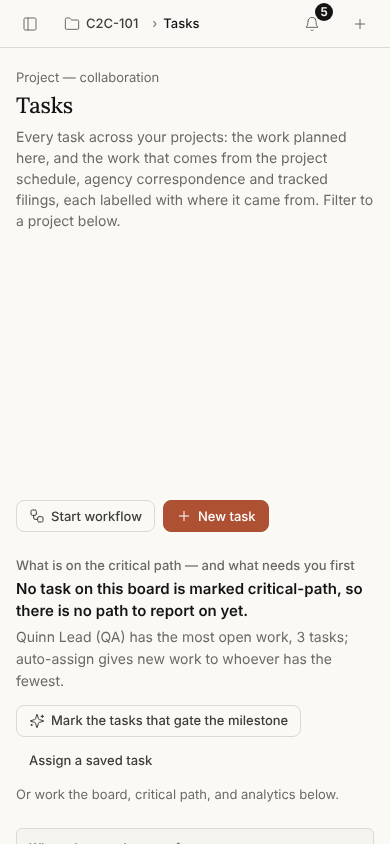
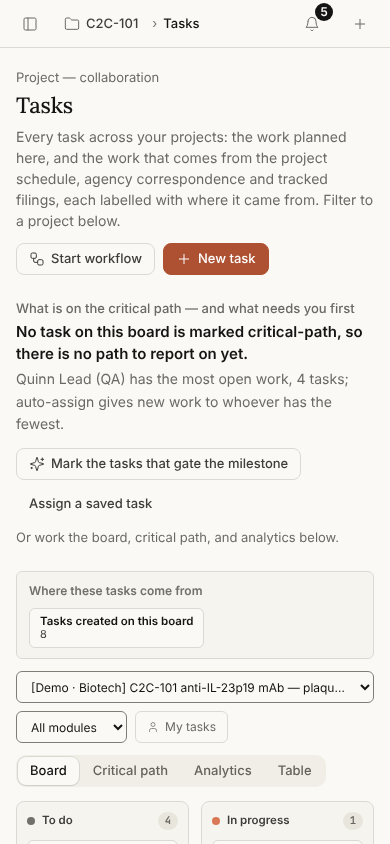
F1: J5 evidence: J2's D4 and D9 fixed and walked
Plan: F1
Completes: docs/evidence/HUMAN-TEST

Claude-Session: https://claude.ai/code/session_01QoxbLcjX1Nv4GMRDVSNQBg

diff --git a/.design/claude-convergence/COORDINATION.md b/.design/claude-convergence/COORDINATION.md
@@ -56,7 +56,7 @@ session (`943b78cb7`, `94f24dba0`). Wave 0 is done: S1 (`505449d7a`), S11 (`805a
 | Design continuation (`011Dpx…`), back 2026-11-04 after a spend-limit stop; its messages to `01JbQU…` return "not found", so it writes here | S11 (step 2 on), F1, R1, DATA | Reconciled onto trunk: its unpushed D0, C-5a/b, P-85, BUILD_ORDER and S1 UI commits duplicated `01JbQU…`'s and were dropped, never pushed. Landing: S10's inbox UI over the server half already on trunk (`LetterQuestionProposals`, `AgencyResponses`, `AgencyInbox`, `CommunicationCenter`, `CommitmentRow`, `shared/utils/utc-day.ts`; none of RIM's held files; **→ RIM**, S10 is yours: this is the extract-commitments UI and its walk fixes); the demo approval and IR letters (DATA); the top bar names a project opened by its link (`Shell.tsx` `useNameProjectOpenedById`; **→ CMC session**: this is why `ProjectBack` read "← Project": the channel had no title, now it does); Project home's adoption fence (`READ_CONTEXT_CHANGED` is loading, not "Couldn't load"); the registry: Biostatistics claims `/api/biostat-bridge/designs` only (launch-reproof-narrowing was red), project-home claims `/api/charters/by-project` and `/api/v1/pyramids/by-project` (the objective read was unmapped, so refused in production); S11 step 2, per-project pyramid progress (`pyramid.routes.ts` by-project routes) and the Plan step's Program plan (`PyramidProject.tsx`, split from `Pyramid.tsx`; one line in `ProjectPlan.tsx`). All of it is on trunk (`758437e78`). **Holds:** `server/routes/pyramid.routes.ts`, `surfaces/Pyramid*.tsx`, `services/regulatory/**` for S11 steps 3–6. Found: the global work breakdowns (Health Canada, TGA, Swissmedic, ANVISA, EU MDR) can reach no project, because New project offers none of those markets (`market-support`: not offered, no outline); they wait on "Add a market" (F22, founder). Also for Security Engineering: `ci:dependency-risk` names 8 advisories published since the last review (@figma/code-connect, body-parser, dompurify, follow-redirects, joi, multer, undici, zod); the braces row was re-reviewed and extended to 2026-12-05 with the founder's approval **→ coordinator, for the sheets you hold:** (a) every empty state renders `c2c-empty-state tone-idle` and the bare `.tone-idle` chip fill boxes it in grey: `.c2c-v2 .c2c-empty-state.tone-idle{background:transparent}`; (b) landed by this session as F1, since nobody held `commcenter-v2.css`: a letter's commitment row wraps at 390 px; with it `pyramid-v2.css`'s task rows. Trunk red seen, not its own: `clientNamesSlice1`, `shellAskGuard` (10 cases), `projectHomeStageCss`, `demo-scripts` (the orientation's seven apps), `ci:surface-text-ramp` (the generated ramp is stale) and `ci:check-phantom-tokens` (a new one at `project-home-v2.css:447`); the last two are the CSS lane's. **→ CSR lane (whoever holds `CsrBuildProgress.tsx`):** `55f436b0b` left the "Send back" JSX expression unclosed, so trunk did not typecheck and every push was refused; this session closed the brace (F1, one character). With it compiling, the null read (`savedText` before the text was read) is fixed too; `csrBuildProgress` (4), `csrCardReach` (6) and `csrWorkflowProgramScope` (1) still fail on behaviour: no "Import approved sections into Authoring" button, no "Section review" label. Also typed `csr-narrative-write-ownership.test.ts`'s snapshot (`typeof this` is an error under the repo's tsc). Yours to reconcile; not touched here **2026-11-05, the CSR client demo (F1, L1 for the walk):** prepared on CDISCPILOT01 and walked in the running app (`docs/evidence/DEMO/2026-11-05-csr-lifecycle/`, `8db780286a`); repairs on trunk: `8957b3c64e` (a CSR from New document drafts as a CSR), `23375e29e0` (every CSR gets "Build from the study's data"), `15447b389d` (clinical sources only), `dd5b03c24d` and `54945d1d2e` (a failed build says why, never the error's text), `e92252c1b2` (a template row is not drafted), `a8a2f3d06e` (the approver reads the saved text first), `30cf348d4d` (an unclaimed death figure is unreconciled), and the CSR suites green (`6ef0c45c78`, `d7ec8c754a`, `234d199ca2`, `6d228fc409`, `3c1ee5fccc`, evidence `9eb24c878b`). In progress: the CSR workers' tenant scope (narratives and assembly fail under forced RLS), the import of approved sections into the same CSR, and the demo's visible breaks. Real drafting has no model key here and is not walked. **Landed and released (2026-11-05, on trunk by 2e9330aec9):** F6 import into the CSR itself (`49b7521569`, `2a6b4d02d2`, `667f97d103`, `c68af7c21a`), B1 worker tenant scope (`82579d85cc`), B3–B8 and F11 (`8cffd6c48b`, `0b33248bad`, `00afaa59ee`, `fbf764efdc`, `4c0c1f3765`, `1e168ddb95`, `c26271ab73`, `d60a95c91b`), the review-first note as one line (`4e423e651c`), the compile route back under 100 kB (`46e45046ab`), and trunk-red repairs across about twenty suites and four gates. Re-walked in the running app as the runtime role with forced RLS: B1, F6, B3, B4 and B7 pass (`docs/evidence/DEMO/2026-11-05-csr-lifecycle/README.md`, "Re-walk after the fixes"). **Holds: none** (all released). **2026-11-06, human-test readiness (founder):** five cloud sessions each walk and fix one journey in the running app (J1 projects `01QoxbLZhyA6…`, J2 Vault `01QoxbLbCeM6…`, J3 editor and review `01QoxbLdxa6f…`, J4 Submission Center `01QoxbLZbDqi…`, J5 work areas `01QoxbLcjX1N…`); each adds its own row for its holds. Decisions and scope: `docs/evidence/HUMAN-TEST/README.md`. **Cloud sessions started by this one (2026-11-05, own containers):** `01QoxbLdfvUk…`, the trunk sweep of shards 21–24 (F1; shards 1–20 are this session's local agent); `01QoxbLdJqTq…`, S11 step 3, task owners and due dates back-scheduled from the target date (S11, without editing RIM's S9 tasking files). Each adds its own row when it holds files. **From R1 (`01QoxbL…`, 2026-11-05), for D4's holder:** `/api/protocol-consent` (21 CFR 50.25 elements, completeness, signed approval through `signGovernedAct`) has seven routes and no client caller; R1 proposes the editor reach it for documents of type `informed_consent` (`templateCatalog.ts:76`). Not started here: D4 is `01JbQU…`'s, and D4-3 waits for the demo. Whether the type and the record converge is the founder's. Scoped 2026-11-05: the consent record is keyed by an integer protocol document id and is organisation-scoped, with no link to an authoring document or a project, so the reach needs that binding first (a founder decision, not taken here). **2026-11-06, where testers run it (L1):** `docker-compose.beta.yml` could not start (no TLS on its db, nothing provisioned it); it now provisions itself over verified TLS, embeds on the self-hosted lane, takes `SETUP_TOKEN` for the first administrator and publishes on loopback only; `provision.mjs` skips install-fresh over a complete database (the second `up` used to hang). Walked from empty volumes in production mode: first administrator, invitation by email, the tester's sign-in with the emailed code, a first IND project (`27720c8221`; `docs/evidence/HUMAN-TEST/2026-11-06-beta-stack/`). The self-host install `docker-compose.yml` had the same defects and carries the same fix, walked the same way. **Plan progress (P-100):** this session's §3a entry is drafted, not committed; this session's permission check read its `Founder-Decision: P-100` trailer as a session amending the plan, so it waits for the founder to confirm. | none |
 | Spine data room and lineage (`01QoxbLcnW…`, from 2026-11-05; not R1's `01QoxbLdKp…`) | F1 repairs on the founder-path lineage, serving spine step 2 (S2's LX fixes of `LINEAGE_END_TO_END_PLAN_2026-09-25.md`). Evidence under `docs/evidence/SPINE/S2/`; progress in ONE_DESIGN_PLAN §3a (P-100) | Landed: the founder-path walk (LX-00) green again, 15 of 15 (`e0e32d099`): it had been red since 2026-11-01 because two right product changes (`3cacf2e15`, `a58029e99`) were not followed in its world, while `ci:canvas-path` read green (static by design; the walk's result is only in CI's Test job). A Data Room upload's bytes survive a deploy and are read from every API task (`fbc2a1773`, LX-02's bytes half): every upload lived only on the serving Fargate task's disk; now the byte store, recorded in `file_uploads.storage_provider` / `storage_object_id`, read by `loadUploadedFile`; the walk's baseline 13 → 12. Then (`a3d874ae5`): the migration set completes on a non-superuser applier. `review_route_writer` and `tenant_record_purger` lacked `CREATE` on public, so on PostgreSQL 15+ as the RDS master the deploy halted at 432, then 454, of 462 (`docs/evidence/D1/2026-11-05-schema-create-grants/`). And (`b61a8b345`): the Data Room says not licensed, not in this release and a role as themselves, through the one read classifier, used in the running app. And (`131aa7d0c`): the walk follows the sent package where `3cab286e12` keeps it; baseline 12 → 11. **Holds nothing.** **→ the lane on Authoring's filing path:** LX-10's seal half: nothing on the Vault side names `frozen_documents.content_hash` (`authoring-file-to-vault.ts`; `633822c083` records section revisions only), the walk's two LX-10 entries. **→ RIM:** LX-12's other half, `submission_transmittals.sequence_id`. **Found, for their owners:** the Evidence step's "What to do now" box is a retired pattern (D3); `editor/useProjectSourceCatalog.ts` does not classify refusals (D4); a refusal's red tone is a D0 question; the CTD onboarding routes (`/api/ctd/*`) have no caller (R1); `server/routes/__tests__/authoringSelectedSources.pglite.test.ts` fails 12 at trunk; `ctd_onboarding_documents` keeps its bytes on local disk the same way (`server/routes/ctd-onboarding.ts`, `readLocalUploadBuffer`); a path-based AnA tool on the other task still finds no working copy of an upload. The coordinating session `01JbQU…` answers "not found" to `get_session`. **Next here, if this lane continues:** the rest of LX-02 (one transaction for the route's writes; the client keeps `sourceId`), file list first | none |
 | S11 steps 3–6a (`01QoxbLdJq…`, started 2026-11-05 by `011Dpx…`) | S11 | **Done; holds nothing.** On trunk: steps 3–4, §8 items 3–4 and 6a (`cca60356`); §8 item 1 written up, not built (`e2e7cb11`: the objective's place is D3 §8 open item 1; the strategy has no read). Evidence under `docs/evidence/SPINE/S11/2026-11-05-*`. **→ Reporting (`011HLkY…`), step 6b, not built:** a proposal for the global schedule is in `docs/evidence/SPINE/S11/2026-11-05-portfolio-line/README.md` (the read `GET /api/v1/pyramids/by-project?refs=` exists; the screen's shape is described); this session could not reach yours by message. | none |
-| Human test J5, the rail's other destinations (`01QoxbLcjX…`, 2026-11-06, started by `011Dpx…`) | F1 | **Done; holds nothing.** Walked Tasks, Communication, Quality, CMC, RBM, Biostatistics, Reporting and Settings as four personas at 1440 and 390 (`docs/evidence/HUMAN-TEST/J5/README.md`). Fixed: unknown address showed the dev scaffold (`06bd659e`); Account's organisations always "session changed" (`768c55df`); RBM could not start on an open project and its seed buttons only asked AnA (`3429a2d7`); Raise CAPA with no project open (`3835d4c8`); RBM picker and Quality headers at 390. **→ coordinating session (`styles/app-v2.css`):** Tasks at ≤760px has a ~250px gap, because `.tb .ph` is a column there and `> :first-child{flex:1 1 420px}` becomes its height; add `.c2c-v2 .tb .ph > :first-child{flex:0 0 auto;}` in that media block (J5-09). **→ RIM:** J5-05 the agency-response drawer shows the raw project UUID, fingerprint and `agency.*` codes, and its Open working copy is below the fold; J5-07 two "The registered response changed" notices right after Use saved editor response; J5-11 a recorded question keeps the letter's line break; J5-06 a Quality periodic-review task says it came from the board. **→ CMC session:** the biotech demo is a biologic, so Module 3 build is always refused there (J5-13). | none |
+| Human test J5, the rail's other destinations (`01QoxbLcjX…`, 2026-11-06, started by `011Dpx…`) | F1 | **Done; holds nothing.** Walked Tasks, Communication, Quality, CMC, RBM, Biostatistics, Reporting and Settings as four personas at 1440 and 390 (`docs/evidence/HUMAN-TEST/J5/README.md`). Fixed: unknown address showed the dev scaffold (`06bd659e`); Account's organisations always "session changed" (`768c55df`); RBM could not start on an open project and its seed buttons only asked AnA (`3429a2d7`); Raise CAPA with no project open (`3835d4c8`); RBM picker and Quality headers at 390. Then, at the lead's request, J2's D4 (a review-route task in Tasks now opens its version or controlled document instead of an Advance the server refuses) and D9 (Tasks at 390: a small CSS-only commit in `styles/app-v2.css`'s ≤760px block, made because the holder could not be reached; **coordinating session, please note it**). **→ RIM:** J5-05 the agency-response drawer shows the raw project UUID, fingerprint and `agency.*` codes, and its Open working copy is below the fold; J5-07 two "The registered response changed" notices right after Use saved editor response; J5-11 a recorded question keeps the letter's line break; J5-06 a Quality periodic-review task says it came from the board. **→ CMC session:** the biotech demo is a biologic, so Module 3 build is always refused there (J5-13). | none |
 | Human test J4, Submission Center (`01QoxbLZbDqi…`, from 2026-11-06, started by `011Dpx…`) | F1 | Walks an IND from an empty sequence 0000 to a compiled, validated package as a regulatory-operations publisher (submissions, planner, builder, Place into filing, required deliverables, sequences 0000/0001, compile, Forms and letters, shadow review, dispatch, eSTAR) in the running app; fixes what a tester hits. Holds only `docs/evidence/HUMAN-TEST/J4/**`; edits a shared file one commit at a time after checking this table and `git log -3`. RIM's held files (`submission-service.ts`, `filed-dispatch.ts`, `assess-dispatch-readiness.ts`, `ind-lifecycle/shared.ts`, copy in `SubmissionSeqWorkspaces.tsx`/`SubmissionCenter.tsx`) are not edited: defects there are written as "→ RIM" in the J4 README | `docs/evidence/HUMAN-TEST/J4/README.md` |
 | Human test J1, sign-in, Home, Projects, New project and the project page (`01QoxbLZhy…`, from 2026-11-06, started by `011Dpx…`) | F1 | **Done; holds nothing.** Walked as a biotech lead (IND) and a device RA manager (510(k), IVD 510(k)) at 1440 and 390; 13 defects fixed (`4959d6cd`, `b3509fdc`, `1a232259`, `6d349696`, `b4251795`, `7ae11d8f`, `559f36bd`, `a3dcd54d`, `75dba130`); `walk.cjs` passes with no 4xx/5xx. **→ S11:** a 510(k) for IVD gets no work breakdown (exact-type rule); whether it takes the 510(k) plan is yours. **→ J3:** the editor's files rail still offers "IND documents" on a device document; pass `indLibrary={false}` as Project home now does. **→ coordinator (`app-v2.css`):** the top bar's notification count covers the bell at 1440; sign-up (`ZenSignup.tsx`) is still drawn in the old black style | `docs/evidence/HUMAN-TEST/J1/README.md` |
 

diff --git a/docs/evidence/HUMAN-TEST/J5/README.md b/docs/evidence/HUMAN-TEST/J5/README.md
@@ -149,7 +149,8 @@ Nothing new was built. No screen, route, service, table or tool was added.
 | J5-04 | QA lead, no project open, Quality → CAPA → Raise CAPA | Told before filling the form that a CAPA needs a project | The form said "Raised in the project you have open". After every field was filled, it refused: "open a project first" | **Fixed** `3835d4c8` (`qmsCapaRegister.tsx`): the form says "No project is open…" at the top, or names the project ("Raised in C2C-101, the project you have open"). Red-then-green in `QmsRecords.test.tsx`. Checked in the app. |
 | J5-08 | RBM at 390 px | The project picker fits | The picker ran off the right edge (right edge at 487 px) | **Fixed** (`rbm-v2.css`, below 800 px): the picker is full width. Measured in the app: the page and picker are within 390 (`shots/w390-rbm.png`). |
 | J5-10 | Quality at 390 px | The header reads normally | The description was squeezed to one word a line, "New controlled document" was cut off, and the library heading was squeezed the same way (`shots/w390-quality-before.png`) | **Fixed** (`quality/app.css`, below 640 px): the actions and the library meta wrap under their headings. This covers every Quality register (`shots/w390-quality-sop.png`, `w390-quality-library.png`). No text block under 60 px remains. |
-| J5-09 | Tasks at 390 px | Title, then the actions | A blank gap of about 250 px under the description (`shots/w390-tasks.png`). `app-v2.css:1198` stacks `.tb .ph` as a column below 760 px, so the shared `> :first-child { flex: 1 1 420px }` becomes a 420 px height | **→ the coordinating session** (it holds `styles/app-v2.css`). One line fixes it: `.c2c-v2 .tb .ph > :first-child { flex: 0 0 auto; }` inside that media block. |
+| J5-09 (J2's D9) | Tasks at 390 px | Title, then the actions | A blank gap of about 250 px under the description (`shots/w390-tasks.png` before the fix). `app-v2.css` stacks `.tb .ph` as a column below 760 px, so the shared `> :first-child { flex: 1 1 420px }` became a 420 px height. The project filter also ran off the right edge (456 px) | **Fixed** (`styles/app-v2.css`, below 760 px, one small CSS-only commit, handed to J5 by the lead `011Dpx…` because the coordinating holder could not be reached). The header child takes its own height, and the filter fits. Measured in the app: no gap, page and filter within 390 (`shots/w390-tasks.png`). |
+| J5-15 (J2's D4) | A reviewer opens a review-route task from Tasks (a Vault "Review: ADSL…" or a QMS "Approve: C2C-SOP-002…") | A way to the version, to read and sign it | The drawer offered only Advance and Archive. The server rightly refuses Advance on a route task (409, `ROUTE_TASK_OWNED_BY_ROUTE`), so the reviewer was stuck | **Fixed**. The board read (`server/routes/taskBoard.routes.ts`) now carries `reviewRoute` for each route task. That is the version a Vault route is on, resolved in one organisation-scoped lookup the way a task notice resolves it (`canonicalDocumentTarget`), or the controlled document of a QMS route. The drawer (`TaskBoard.tsx`) says the route completes the task, and offers "Open the version in the Vault" or "Open the controlled document" through the one record-opening path a notice uses, once the drawer has closed. It offers no Advance or Move back on such a task, on the card or in the drawer. Red-then-green in `server/routes/__tests__/taskBoard-review-route.test.ts` and `client/…/__tests__/taskBoardRouteTask.test.tsx`; all 173 Tasks client tests pass. In the app, as Quinn, the "Approve: C2C-SOP-002" task opened SOP-002, In review, in Quality (`shots/d4-route-task-drawer.png`, `d4-opened-document.png`). The Vault branch is covered by the two tests and uses the same opening path as a Vault notice, but no Vault route was created in this walk. |
 | J5-05 | Communication → Write response → Open response in editor | Plain language, and the next step in view | The drawer shows the raw project UUID ("Target project: 46e5c864-…"), "Snapshot fingerprint", section codes `agency.context` and `agency.response`, and "Response to 1" rather than "Response to question 1". **Open working copy** sits below the fold after Create working copy, so the drawer looks finished with only Close showing (`shots/c6-editor.png`) | **→ RIM** (S10, Communication). `editor/SourceImportDialog.tsx` is shared with the editor (J3). |
 | J5-07 | Communication, after **Use saved editor response** | A confirmation | Two warnings appear at once: "The registered response changed. For another amendment, preview…" and "The registered response changed. Refresh the saved response before saving". They describe the save the person just made, so it reads like a conflict | **→ RIM** (`AgencyResponseEditor.tsx`, `useAgencyResponseEditor.ts`). |
 | J5-11 | Communication, a recorded question | The question as one paragraph | Its text keeps the letter's line break and indent ("26-week ⏎ cynomolgus") | **→ RIM** (S10 G3, the splitter's verbatim contract, held). |
